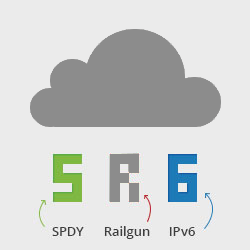
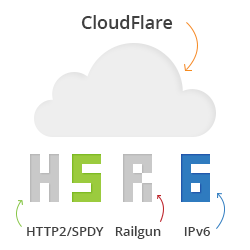
feat(http2): add support for http2 connections

diff --git a/source/request.js b/source/request.js
@@ -13,8 +13,9 @@ define([ 'airports' ], function( airports ) {
 		// weather the request object knows about the SPDY status or not
 		// this status is available in the context of the page, requires message passing
 		// from the extension to the page
-		this.hasSPDYStatus = false;
+		this.hasConnectionInfo = false;
 		this.SPDY = false;
+		this.connectionType = null;
 
 		this.preProcessHeaders();
 	};
@@ -111,13 +112,13 @@ define([ 'airports' ], function( airports ) {
 
 	};
 
-	Request.prototype.querySPDYStatusAndSetIcon = function() {
+	Request.prototype.queryConnectionInfoAndSetIcon = function() {
 		var tabID = this.details.tabId;
-		if ( this.hasSPDYStatus ) {
+		if ( this.hasConnectionInfo ) {
 			this.setPageActionIconAndPopup();
 		} else {
 			var csMessageData = {
-				'action' : 'check_spdy_status'
+				'action' : 'check_connection_info'
 			};
 			var csMessageCallback = function( csMsgResponse ) {
 				// stop and return if we don't get a response, happens with hidden/background tabs
@@ -126,7 +127,7 @@ define([ 'airports' ], function( airports ) {
 				}
 
 				var request = window.requests[tabID];
-				request.setSPDYStatus( csMsgResponse.spdy );
+				request.setConnectionInfo( csMsgResponse );
 				request.setPageActionIconAndPopup();
 			};
 
@@ -151,7 +152,11 @@ define([ 'airports' ], function( airports ) {
 	};
 
 	Request.prototype.servedOverSPDY = function() {
-		return this.SPDY;
+		return this.SPDY && this.connectionType.match(/^spdy/);
+	};
+
+	Request.prototype.servedOverH2 = function() {
+		return this.SPDY && this.connectionType === 'h2';
 	};
 
 	Request.prototype.ServedFromBrowserCache = function() {
@@ -222,6 +227,8 @@ define([ 'airports' ], function( airports ) {
 
 		if ( this.servedOverSPDY() ) {
 			iconPathParts.push( 'spdy' );
+		} else if ( this.servedOverH2() ) {
+			iconPathParts.push( 'h2' );
 		}
 
 		if ( this.isv6IP() ) {
@@ -235,9 +242,10 @@ define([ 'airports' ], function( airports ) {
 		return basePath + iconPathParts.join( '-' ) + '.png';
 	};
 
-	Request.prototype.setSPDYStatus = function( status ) {
-		this.hasSPDYStatus = true;
-		this.SPDY = status;
+	Request.prototype.setConnectionInfo = function(connectionInfo) {
+		this.hasConnectionInfo = true;
+		this.SPDY = connectionInfo.spdy;
+		this.connectionType = connectionInfo.type
 	};
 
 	Request.prototype.setPageActionIconAndPopup = function() {

diff --git a/source/contentscript.js b/source/contentscript.js
@@ -1,10 +1,18 @@
-// when asked tell the extension about the SPDY status of current page
+// when asked tell the extension about the SPDY/HTTP2 status of current page
+
+function determineConnectionInfo() {
+    var loadTimes = chrome.loadTimes();
+    return {
+        spdy: loadTimes.wasFetchedViaSpdy,
+        type: loadTimes.npnNegotiatedProtocol || loadTimes.connectionInfo
+    }
+}
 
 chrome.runtime.onMessage.addListener(function(request, sender, sendResponse) {
-    if (request.action === 'check_spdy_status') {
-        sendResponse({'spdy': window.chrome.loadTimes().wasFetchedViaSpdy});
+    if (request.action === 'check_connection_info') {
+        sendResponse(determineConnectionInfo());
     }
 });
 
-// when executed, notify the extension about the SPDY status
-chrome.runtime.sendMessage({'spdy': window.chrome.loadTimes().wasFetchedViaSpdy}, function() {});
+// when executed, notify the extension about the connection info
+chrome.runtime.sendMessage(determineConnectionInfo(), function() {});

diff --git a/source/claire.js b/source/claire.js
@@ -45,7 +45,7 @@ define([ 'request' ], function( Request ) {
 		if ( details.tabId in window.requests ) {
 			var request = window.requests[details.tabId];
 			if ( ! request.details.fromCache ) {
-				request.querySPDYStatusAndSetIcon();
+				request.queryConnectionInfoAndSetIcon();
 			}
 		}
 	});
@@ -53,7 +53,7 @@ define([ 'request' ], function( Request ) {
 	chrome.runtime.onMessage.addListener(function( csRequest, sender, sendResponse ) {
 		var request = window.requests[sender.tab.id];
 		if ( request ) {
-			request.setSPDYStatus( csRequest.spdy );
+			request.setConnectionInfo( csRequest );
 		}
 		sendResponse({});
 	});

diff --git a/source/page_action_popup.html b/source/page_action_popup.html
@@ -11,7 +11,7 @@
   </head>
   <body>
     <div id="claireInfoImage">
-      <img src="images/claire-3-popup.jpg" alt="" />
+      <img src="images/claire-3-popup.png" alt="" />
     </div>
     <div id="requestInfo">
       <section id="ipAddress" class="card">
